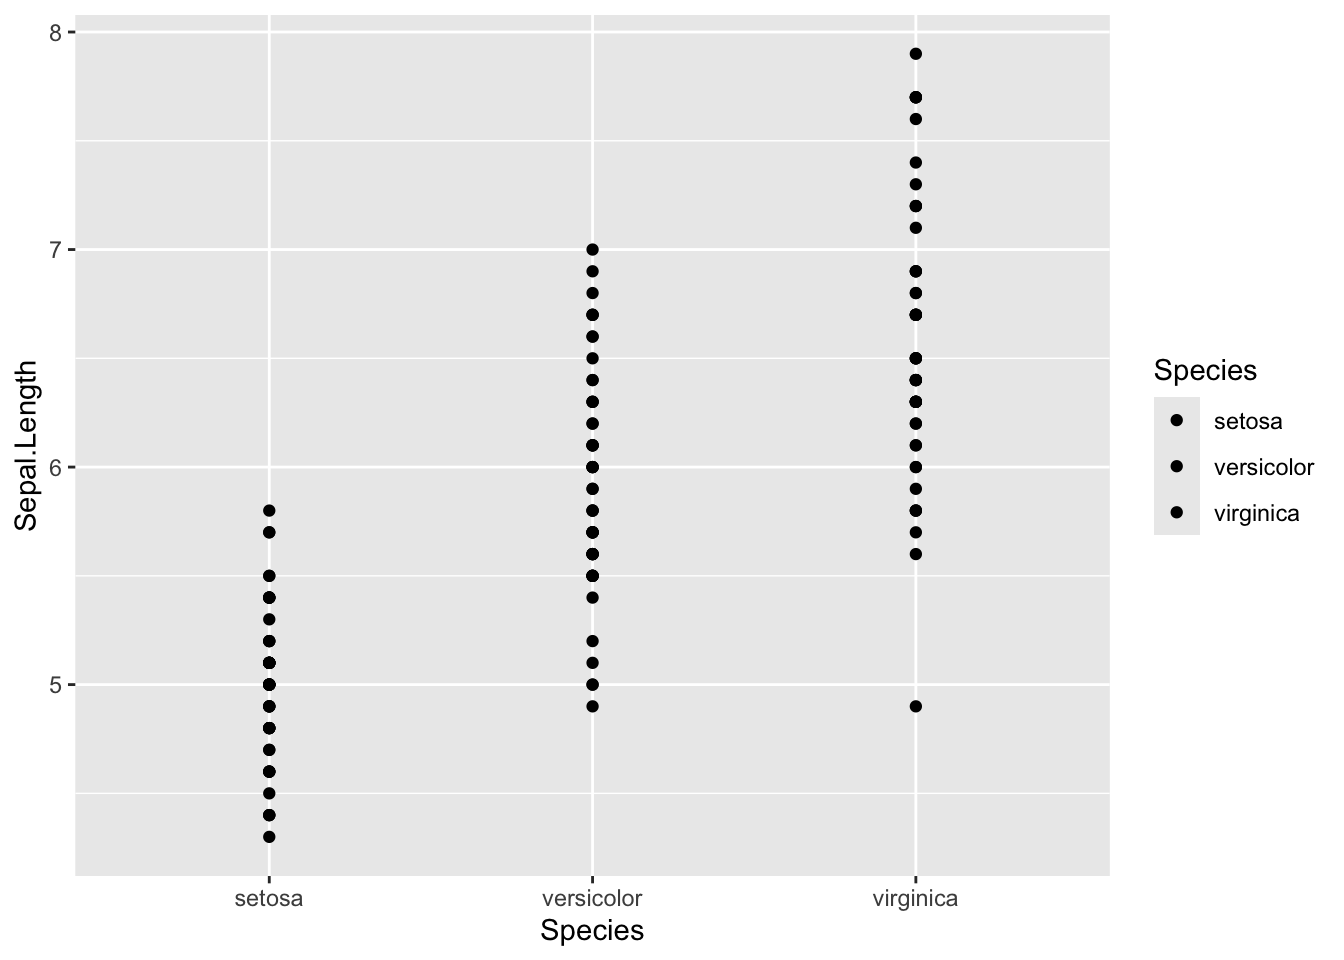
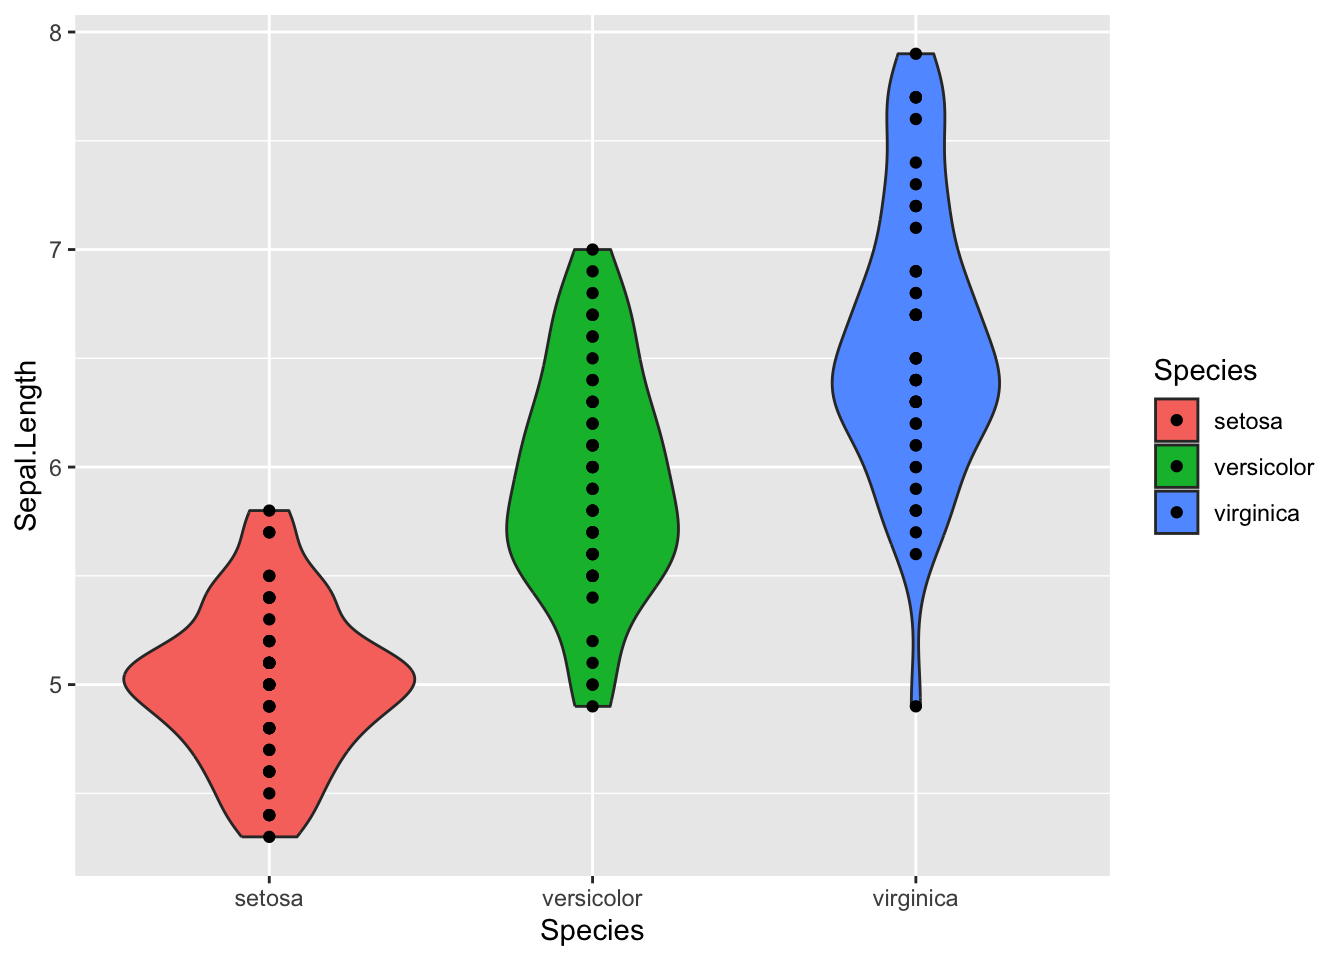
added violin plots to univariate

diff --git a/docs/posts/2025-02-13-data/index.html b/docs/posts/2025-02-13-data/index.html
@@ -354,7 +354,7 @@ Learning objectives
 <p>At some point your data will most likely be arranged into spreadsheets, with observations as rows and variables as columns. <strong>In this course, we will focus on the data source that you are most likely to encounter in your analyses, the “(messy) spreadsheet” type, containing bits of information collected on individuals.</strong> Please do feel free to play around with other data types on your own, e.g.&nbsp;for your course project.</p>
 <div class="cell" data-layout-align="center">
 <div class="cell-output-display">
-<div id="fig-havedata" class="quarto-float quarto-figure quarto-figure-center anchored" alt="A cartoon showing two people arguing at a table, and a third person, the data analyst is at his laptop. He is smiling and says *When you two have finished arguing your opinions, I actually have data*." data-fig-align="center">
+<div id="fig-havedata" class="quarto-float quarto-figure quarto-figure-center anchored" data-fig-align="center" alt="A cartoon showing two people arguing at a table, and a third person, the data analyst is at his laptop. He is smiling and says *When you two have finished arguing your opinions, I actually have data*.">
 <figure class="quarto-float quarto-float-fig figure"><div aria-describedby="fig-havedata-caption-0ceaefa1-69ba-4598-a22c-09a6ac19f8ca">
 <img src="../../images/i-have-data_3.jpeg" class="img-fluid quarto-figure quarto-figure-center figure-img" style="width:80.0%" alt="A cartoon showing two people arguing at a table, and a third person, the data analyst is at his laptop. He is smiling and says *When you two have finished arguing your opinions, I actually have data*.">
 </div>

diff --git a/docs/posts/2025-03-06-univariate/index.html b/docs/posts/2025-03-06-univariate/index.html
@@ -599,7 +599,9 @@ F-statistic: 64.32 on 3 and 146 DF,  p-value: &lt; 2.2e-16</code></pre>
 </div>
 <p>You can even overlay points (or add bar plots, etc.):</p>
 <div class="cell">
-<div class="sourceCode" id="cb29"><pre class="downlit sourceCode r code-with-copy"><code class="sourceCode R"><span><span class="va">p</span> <span class="op">+</span> <span class="fu"><a href="https://ggplot2.tidyverse.org/reference/geom_point.html">geom_point</a></span><span class="op">(</span><span class="op">)</span></span></code><button title="Copy to Clipboard" class="code-copy-button"><i class="bi"></i></button></pre></div>
+<div class="sourceCode" id="cb29"><pre class="downlit sourceCode r code-with-copy"><code class="sourceCode R"><span><span class="va">p</span> <span class="op">+</span> </span>
+<span>  <span class="fu"><a href="https://ggplot2.tidyverse.org/reference/geom_violin.html">geom_violin</a></span><span class="op">(</span><span class="op">)</span> <span class="op">+</span></span>
+<span>  <span class="fu"><a href="https://ggplot2.tidyverse.org/reference/geom_point.html">geom_point</a></span><span class="op">(</span><span class="op">)</span></span></code><button title="Copy to Clipboard" class="code-copy-button"><i class="bi"></i></button></pre></div>
 <div class="cell-output-display">
 <div>
 <figure class="figure"><p><img src="index_files/figure-html/unnamed-chunk-15-1.png" class="img-fluid figure-img" width="672"></p>

diff --git a/docs/lectures.html b/docs/lectures.html
@@ -288,7 +288,7 @@ Marguerite Butler
 </a>
 </div>
 </div>
[2 lines of base64/hex data omitted]
 <div class="thumbnail">
 <p><a href="./posts/2025-03-06-univariate/index.html" class="no-external"></a></p><a href="./posts/2025-03-06-univariate/index.html" class="no-external">
 <p class="card-img-top"><img src="posts/2025-03-06-univariate/index_files/figure-html/unnamed-chunk-1-1.png"  class="thumbnail-image card-img"/></p>
